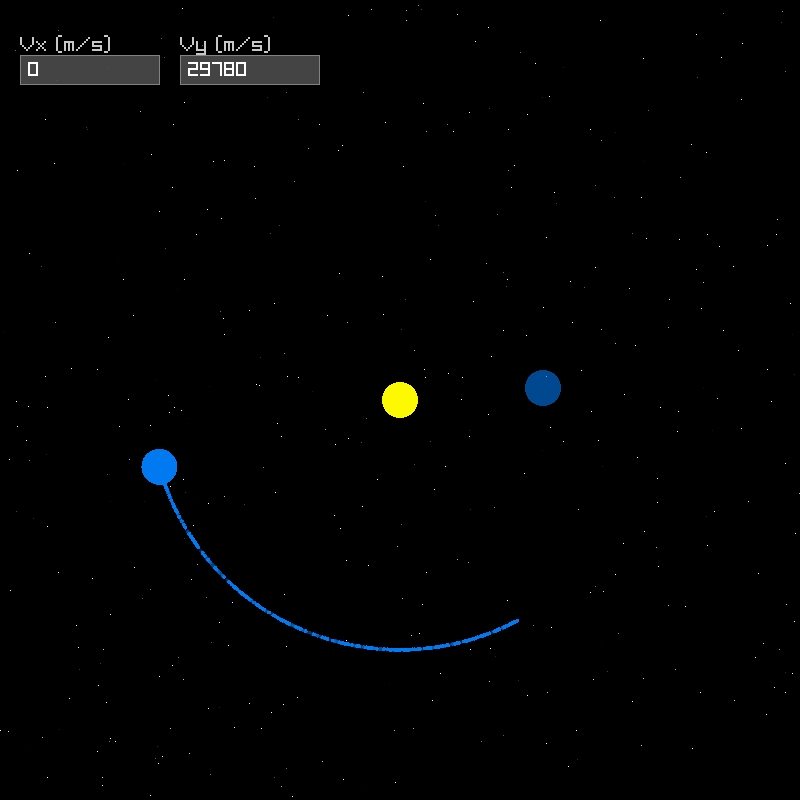
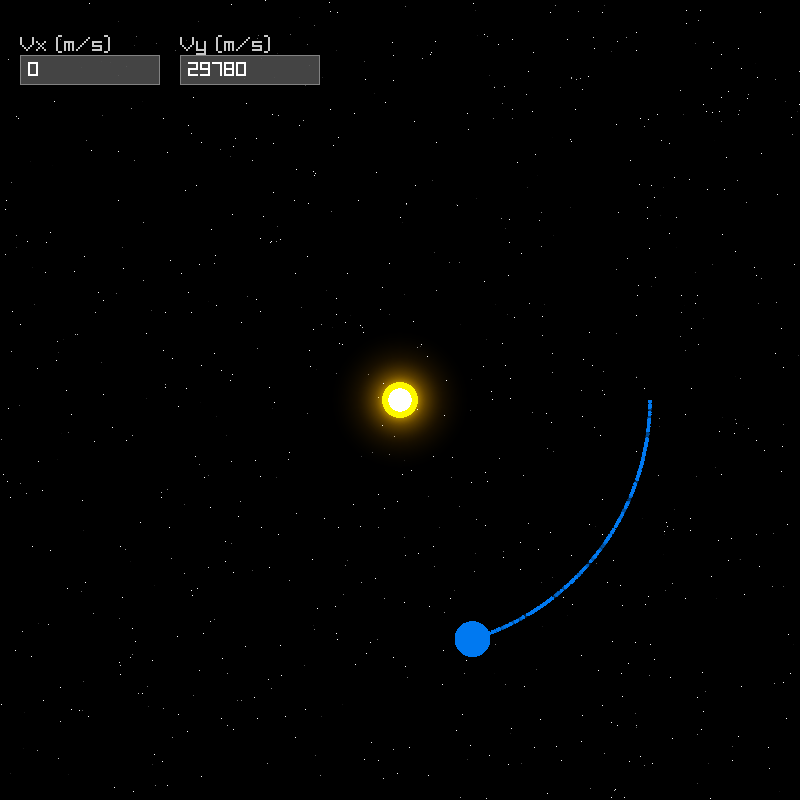
Add more stars

diff --git a/orbit.c b/orbit.c
@@ -17,7 +17,7 @@
 #define SCALE          (250.0 / 1.496e11)
 #define SCALE_FIGURES  3
 
-#define MAX_STARS      400
+#define MAX_STARS      800
 #define EXPLOSION_TEXT "El planeta ha explotado :("
 
 #define T_MAX    3.156e7
